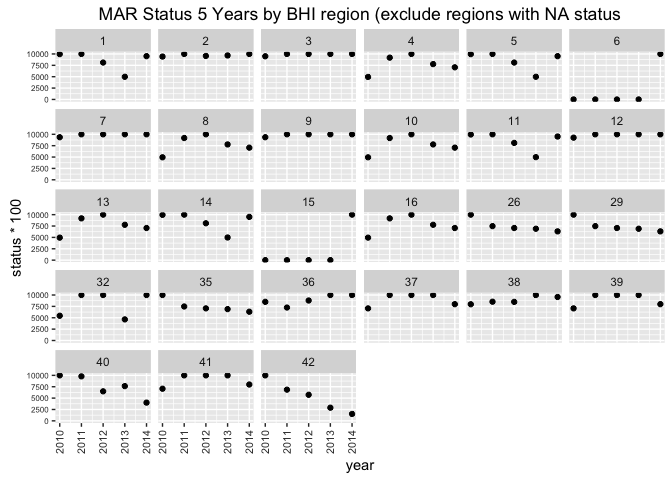
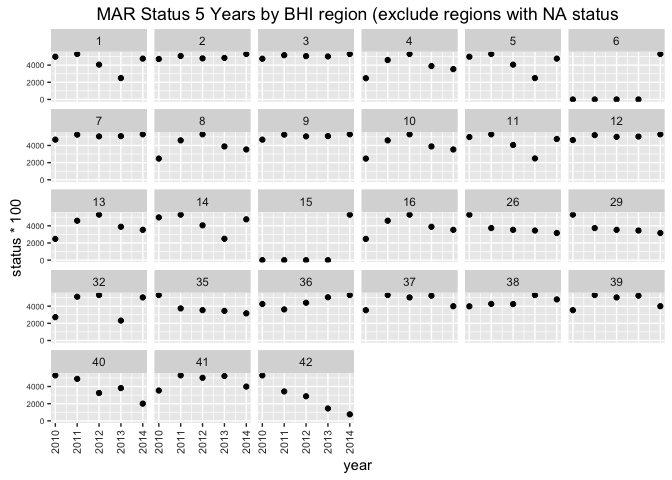
changed MAR ref point to max_production*1.

diff --git a/baltic2015/prep/MAR/mar_prep.md b/baltic2015/prep/MAR/mar_prep.md
@@ -478,12 +478,12 @@ Calculate MAR status and trend to get feedback. Code here is copied from functio
     filter(year %in% status_years)
 
   # Merge harvest (production) data with sustainability score
-  # ref_point = half of max production achieve sust coeff of 1
+  # ref_point = max production achieve sust coeff of 1
   temp = left_join(harvest_tonnes, harvest_species, by = 'species_code') %>%
     left_join(., sustainability_score, by = c('rgn_id', 'species')) %>%
     group_by(rgn_id, species_code) %>%   
     mutate(tonnes_sust = tonnes * sust_coeff, 
-           ref_value = 0.5 * max(tonnes) * 1) %>% 
+           ref_value = max(tonnes) * 1) %>% 
     ungroup()
 
   ###----------------------------###
@@ -514,7 +514,8 @@ Calculate MAR status and trend to get feedback. Code here is copied from functio
       data.frame(trend_score = max(-1, min(1, coef(lm(status ~ year, .))['year'] * 0.05))) #future_year set in contants, this is the value 5 in the old code
       else data.frame(trend_score = NA)}) %>%
     ungroup() %>%
-    mutate(trend_score = round(trend_score,2))
+    mutate(trend_score = round(trend_score,2)) %>% 
+    complete(rgn_id = full_seq(c(1, 42), 1))
 
   #####----------------------######
   # return MAR scores
